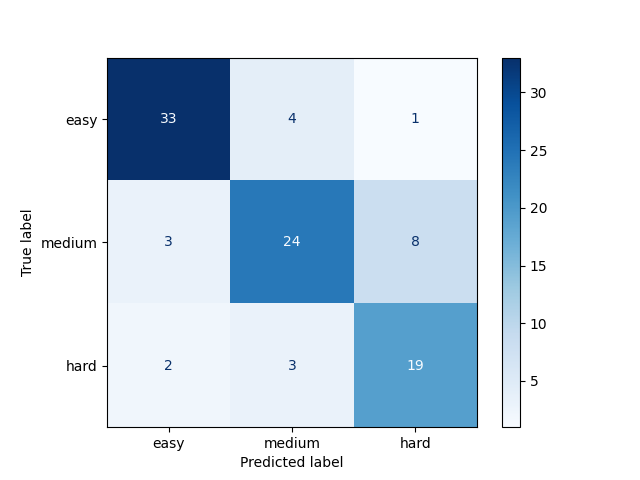
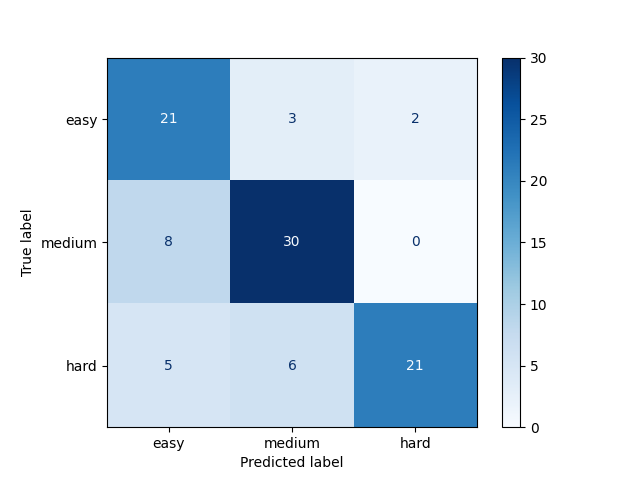
with preprocessing

diff --git a/classifier/management/commands/cluster_questions.py b/classifier/management/commands/cluster_questions.py
@@ -3,8 +3,28 @@ from classifier.models import Question, ClusteredQuestion
 
 from sentence_transformers import SentenceTransformer
 from sklearn.cluster import KMeans
-from tqdm import tqdm  # optional, for nice progress bars
+from tqdm import tqdm
 import numpy as np
+import string
+import nltk
+from nltk.corpus import stopwords
+from nltk.stem import WordNetLemmatizer
+
+# Download NLTK resources if not already present
+nltk.download('punkt')
+nltk.download('stopwords')
+nltk.download('wordnet')
+
+stop_words = set(stopwords.words("english"))
+lemmatizer = WordNetLemmatizer()
+
+# Preprocessing function
+def preprocess_text(text):
+    text = text.lower()
+    text = text.translate(str.maketrans('', '', string.punctuation))
+    tokens = nltk.word_tokenize(text)
+    cleaned_tokens = [lemmatizer.lemmatize(word) for word in tokens if word not in stop_words]
+    return " ".join(cleaned_tokens)
 
 class Command(BaseCommand):
     help = 'Embed and cluster questions within each paper and module using SBERT + KMeans. Logs metrics.'
@@ -24,16 +44,18 @@ class Command(BaseCommand):
             for module in modules:
                 print(f"\n   📑 Module: {module}")
 
-                # Get questions for the current paper and module
                 questions = Question.objects.filter(paper=paper, module=module)
-                texts = [q.text for q in questions]
+                raw_texts = [q.text for q in questions]
 
-                if not texts:
+                if not raw_texts:
                     print(f"❌ No questions found for paper {paper}, module {module}. Skipping...\n")
                     continue
 
-                print(f"🧠 Encoding {len(texts)} questions...")
-                embeddings = model.encode(texts)
+                print(f"🧹 Preprocessing {len(raw_texts)} questions...")
+                processed_texts = [preprocess_text(text) for text in raw_texts]
+
+                print(f"🧠 Encoding preprocessed texts...")
+                embeddings = model.encode(processed_texts)
 
                 print("🌀 Clustering into 3 groups...")
                 kmeans = KMeans(n_clusters=3, random_state=42)
@@ -48,16 +70,16 @@ class Command(BaseCommand):
                     print(f"  🔹 Cluster {i}: {count} questions")
 
                 print("💾 Saving clustered questions...")
-                ClusteredQuestion.objects.filter(paper=paper, module=module).delete()  # optional: clear old ones
+                ClusteredQuestion.objects.filter(paper=paper, module=module).delete()
                 for i, q in enumerate(tqdm(questions, desc=f"   ⬇ Saving Module {module}")):
                     ClusteredQuestion.objects.create(
                         paper=q.paper,
                         text=q.text,
                         module=q.module,
-                        cluster_label=labels[i],  # Cluster label for module-specific clustering
-                        embedding=embeddings[i].tolist()  # Convert numpy array to list before saving
+                        cluster_label=labels[i],
+                        embedding=embeddings[i].tolist()
                     )
+
         clustered_questions = ClusteredQuestion.objects.exclude(embedding__isnull=True)
         print(f"Number of questions with embeddings saved: {clustered_questions.count()}")
-
         print("\n✅ All clustering done and saved! 🎉")

diff --git a/classifier/utils.py b/classifier/utils.py
@@ -24,9 +24,33 @@ CLUSTER_DIFFICULTY = {
     2: 'hard'
 }
 
+import nltk
+import string
+from nltk.corpus import stopwords
+from nltk.stem import WordNetLemmatizer
+
+# Load these once
+nltk.download('punkt')
+nltk.download('stopwords')
+nltk.download('wordnet')
+
+stop_words = set(stopwords.words("english"))
+lemmatizer = WordNetLemmatizer()
+
+def preprocess_text(text):
+    text = text.lower()
+    text = text.translate(str.maketrans('', '', string.punctuation))
+    tokens = nltk.word_tokenize(text)
+    cleaned_tokens = [lemmatizer.lemmatize(word) for word in tokens if word not in stop_words]
+    return " ".join(cleaned_tokens)
+
+
 def predict_difficulty(text, paper, module):
     try:
-        new_embedding = sbert_model.encode([text])[0]
+        # 🔁 Preprocess before encoding
+        cleaned_text = preprocess_text(text)
+        new_embedding = sbert_model.encode([cleaned_text])[0]
+
         existing_qs = ClusteredQuestion.objects.filter(paper=paper, module=module).exclude(embedding__isnull=True)
 
         if existing_qs.count() >= 3:
@@ -44,7 +68,7 @@ def predict_difficulty(text, paper, module):
             return {
                 'difficulty': difficulty,
                 'cluster_label': cluster_label,
-                'embedding': new_embedding.tolist()  # Convert to list for JSON safety
+                'embedding': new_embedding.tolist()
             }
 
         else:
